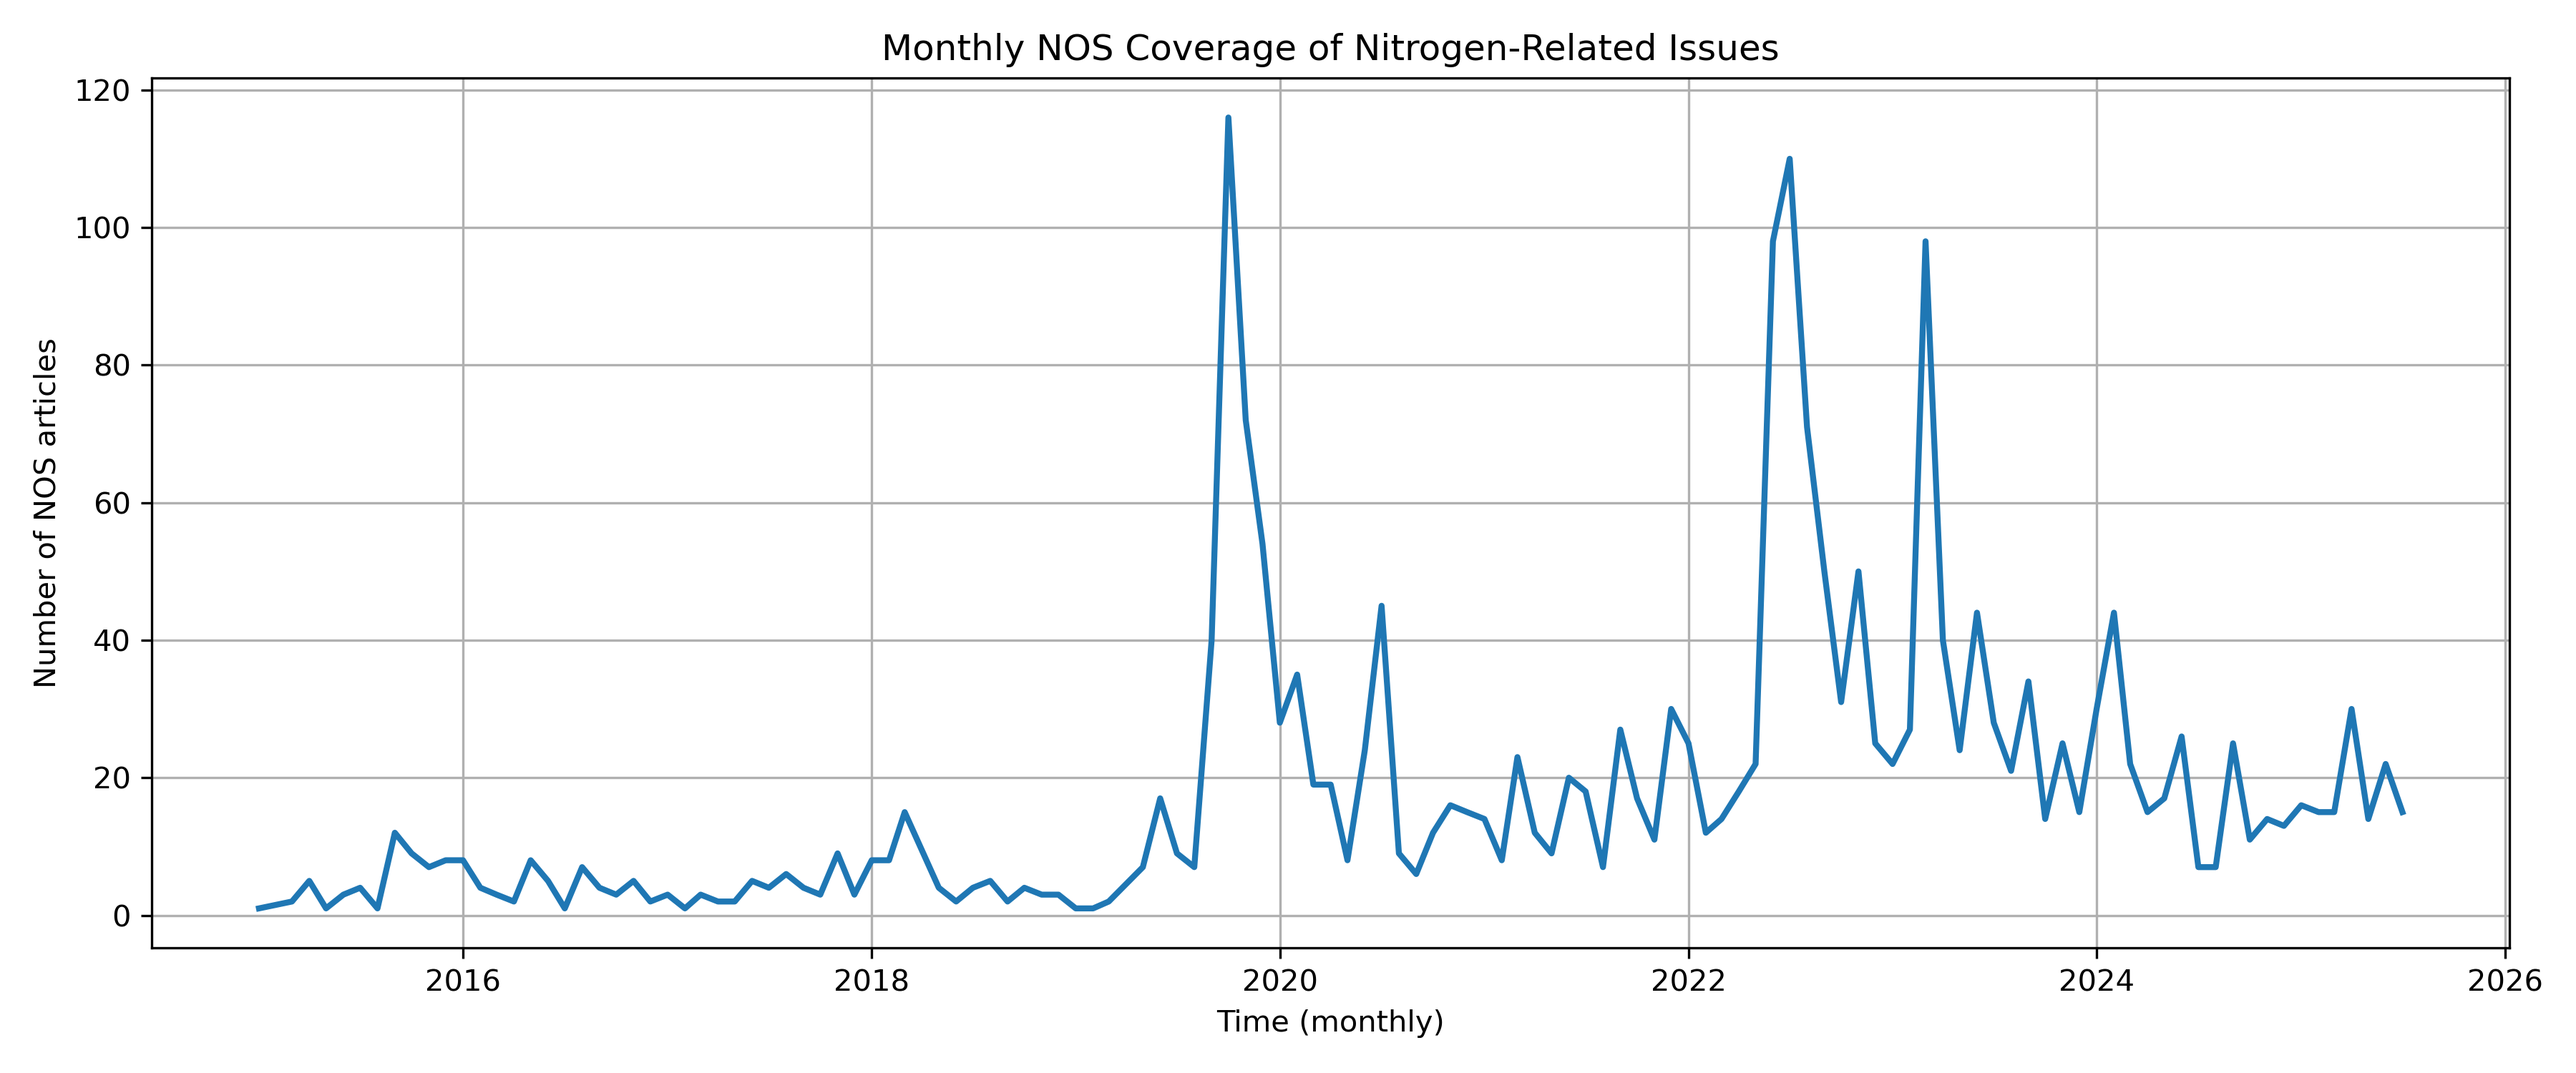
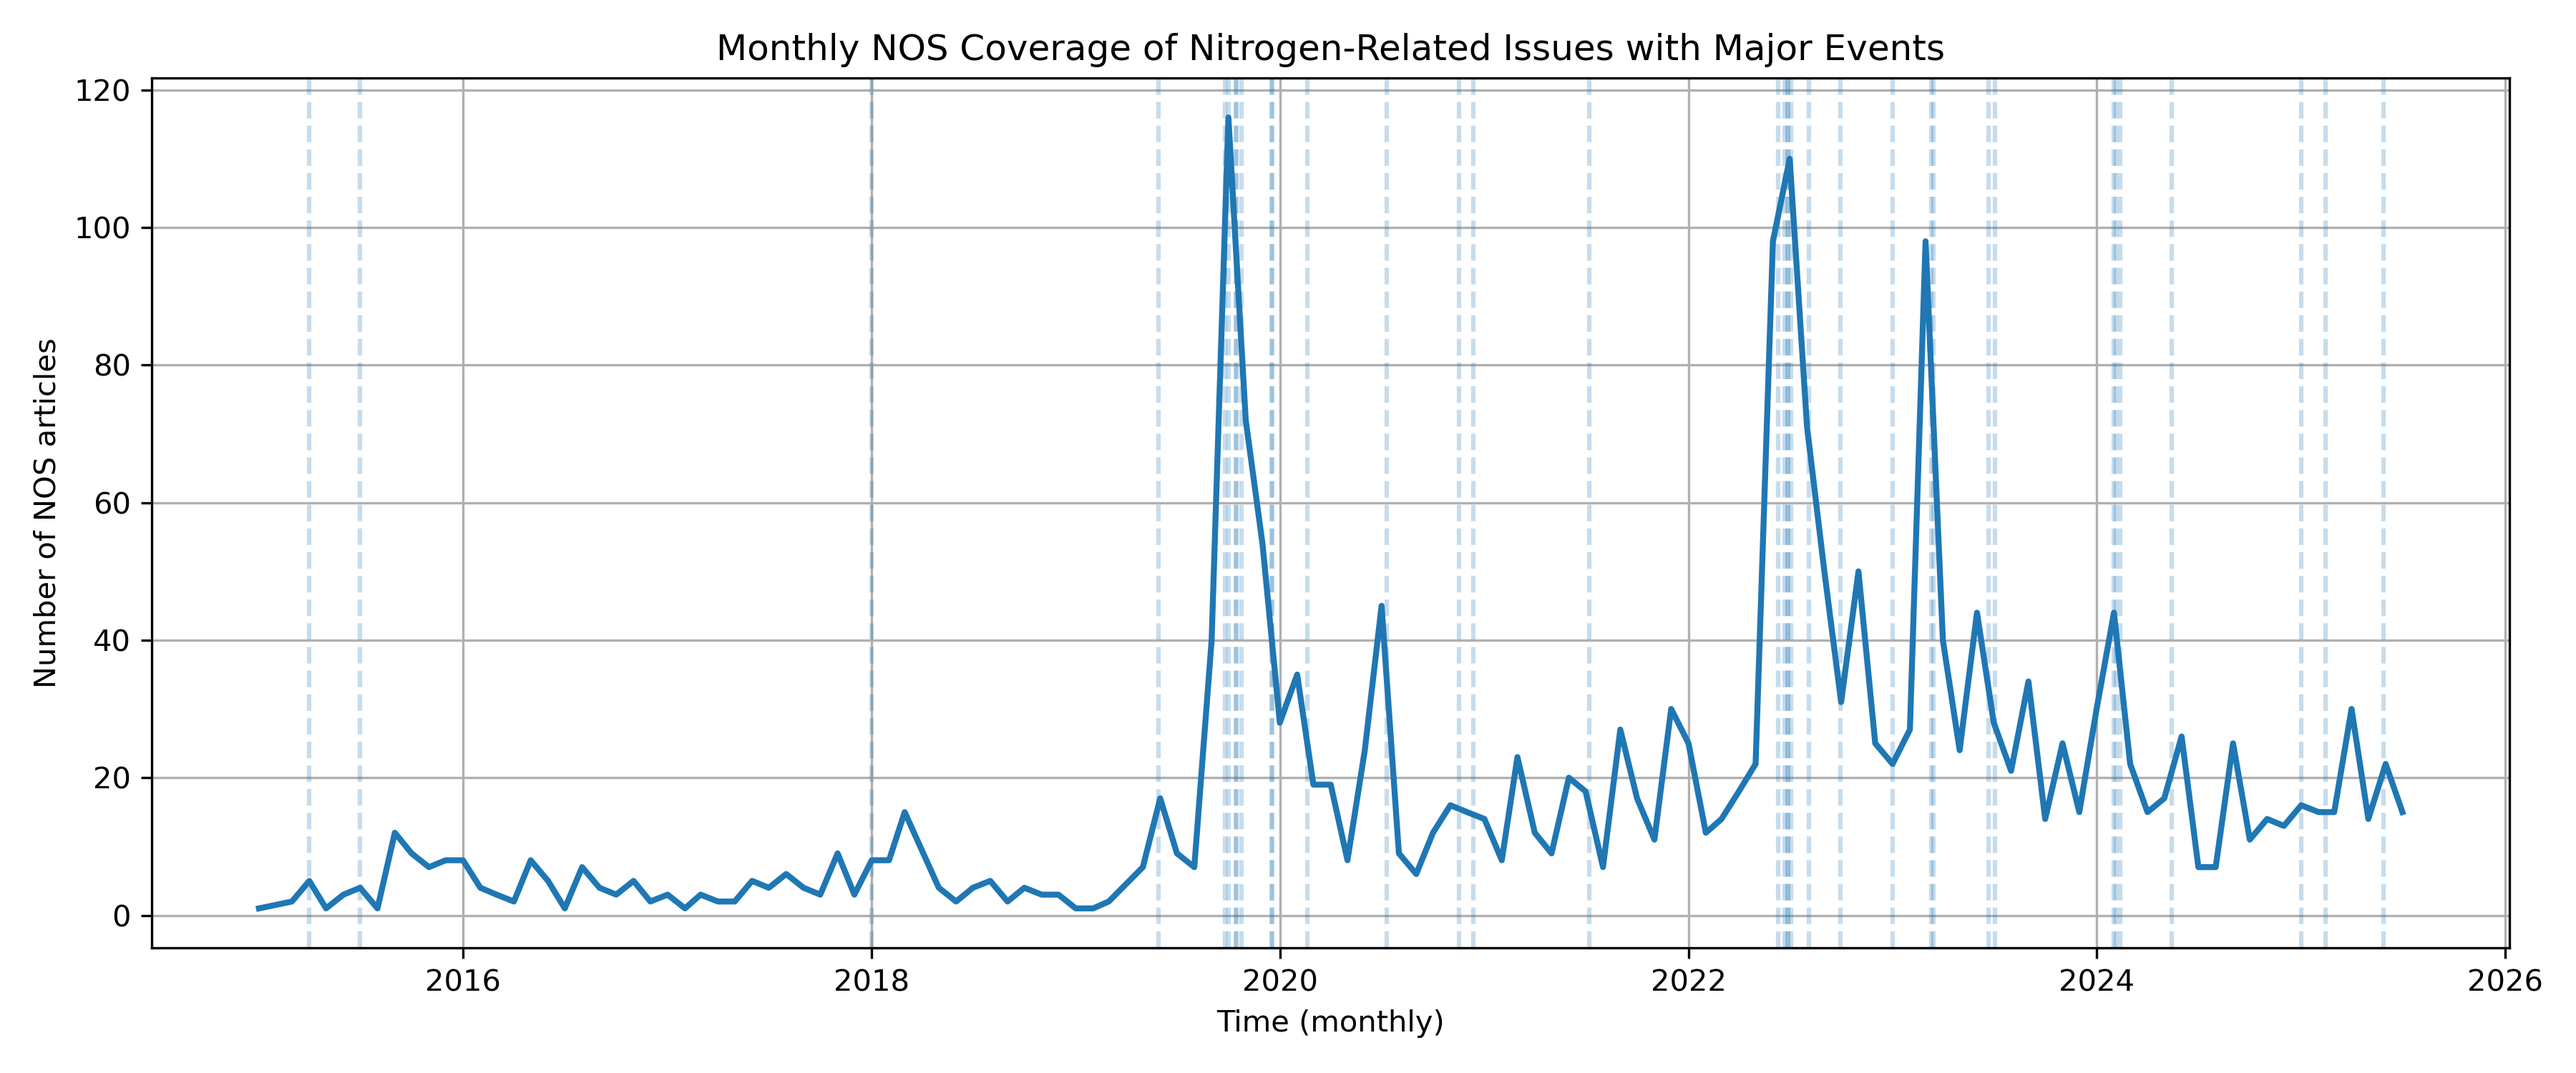
afsd

diff --git a/main.py b/main.py
@@ -9,7 +9,9 @@ import matplotlib.pyplot as plt
 NOS_PATH = r"/Users/p.stam/Desktop/NOS_NL_articles_2015_jul_2025.feather"  # <-- aanpassen
 
 # 2) Dit staat wél in je projectmap
+
 TRENDS_PATH = "multiTimeline.csv"
+EVENTS_PATH = "Protest_regel_data.txt"
 
 IMAGES_DIR = "images"
 
@@ -78,9 +80,33 @@ df_trends = df_trends.sort_values("date")
 # =========================================================
 # 3) FIGURE 1 — NOS COVERAGE
 # =========================================================
+# --- load events (optional: if file exists) ---
+events_in_range = None
+if os.path.exists(EVENTS_PATH):
+    events = pd.read_csv(EVENTS_PATH, sep=";", encoding="utf-8-sig")
+    if "Date" in events.columns:
+        events["Date"] = pd.to_datetime(events["Date"], errors="coerce")
+        events = events.dropna(subset=["Date"])
+
+        # keep only events within the NOS timeline range
+        if len(nos_monthly) > 0:
+            start = nos_monthly["date"].min()
+            end = nos_monthly["date"].max()
+            events_in_range = events[(events["Date"] >= start) & (events["Date"] <= end)].sort_values("Date")
+else:
+    print(f"Warning: events file not found at '{EVENTS_PATH}' (skipping event markers).")
+
 plt.figure(figsize=(12, 5))
+
+# NOS line
 plt.plot(nos_monthly["date"], nos_monthly["NOS_article_count"], linewidth=2)
-plt.title("Monthly NOS Coverage of Nitrogen-Related Issues")
+
+# Event markers (vertical dashed lines)
+if events_in_range is not None and len(events_in_range) > 0:
+    for d in events_in_range["Date"]:
+        plt.axvline(d, linestyle="--", alpha=0.25)
+
+plt.title("Monthly NOS Coverage of Nitrogen-Related Issues with Major Events")
 plt.xlabel("Time (monthly)")
 plt.ylabel("Number of NOS articles")
 plt.grid(True)
@@ -96,7 +122,14 @@ plt.close()
 plt.figure(figsize=(12, 5))
 for c in term_cols:
     if df_trends[c].notna().any():
-        plt.plot(df_trends["date"], df_trends[c], linewidth=1.8, label=c)
+        clean_label = c.split(":")[0]
+        clean_label = clean_label.replace("Netherlands", "").replace("Nederland", "").strip()
+        plt.plot(
+            df_trends["date"],
+            df_trends[c],
+            linewidth=1.8,
+            label=clean_label
+        )
 
 plt.title("Monthly Google Trends (selected search terms)")
 plt.xlabel("Time (monthly)")
